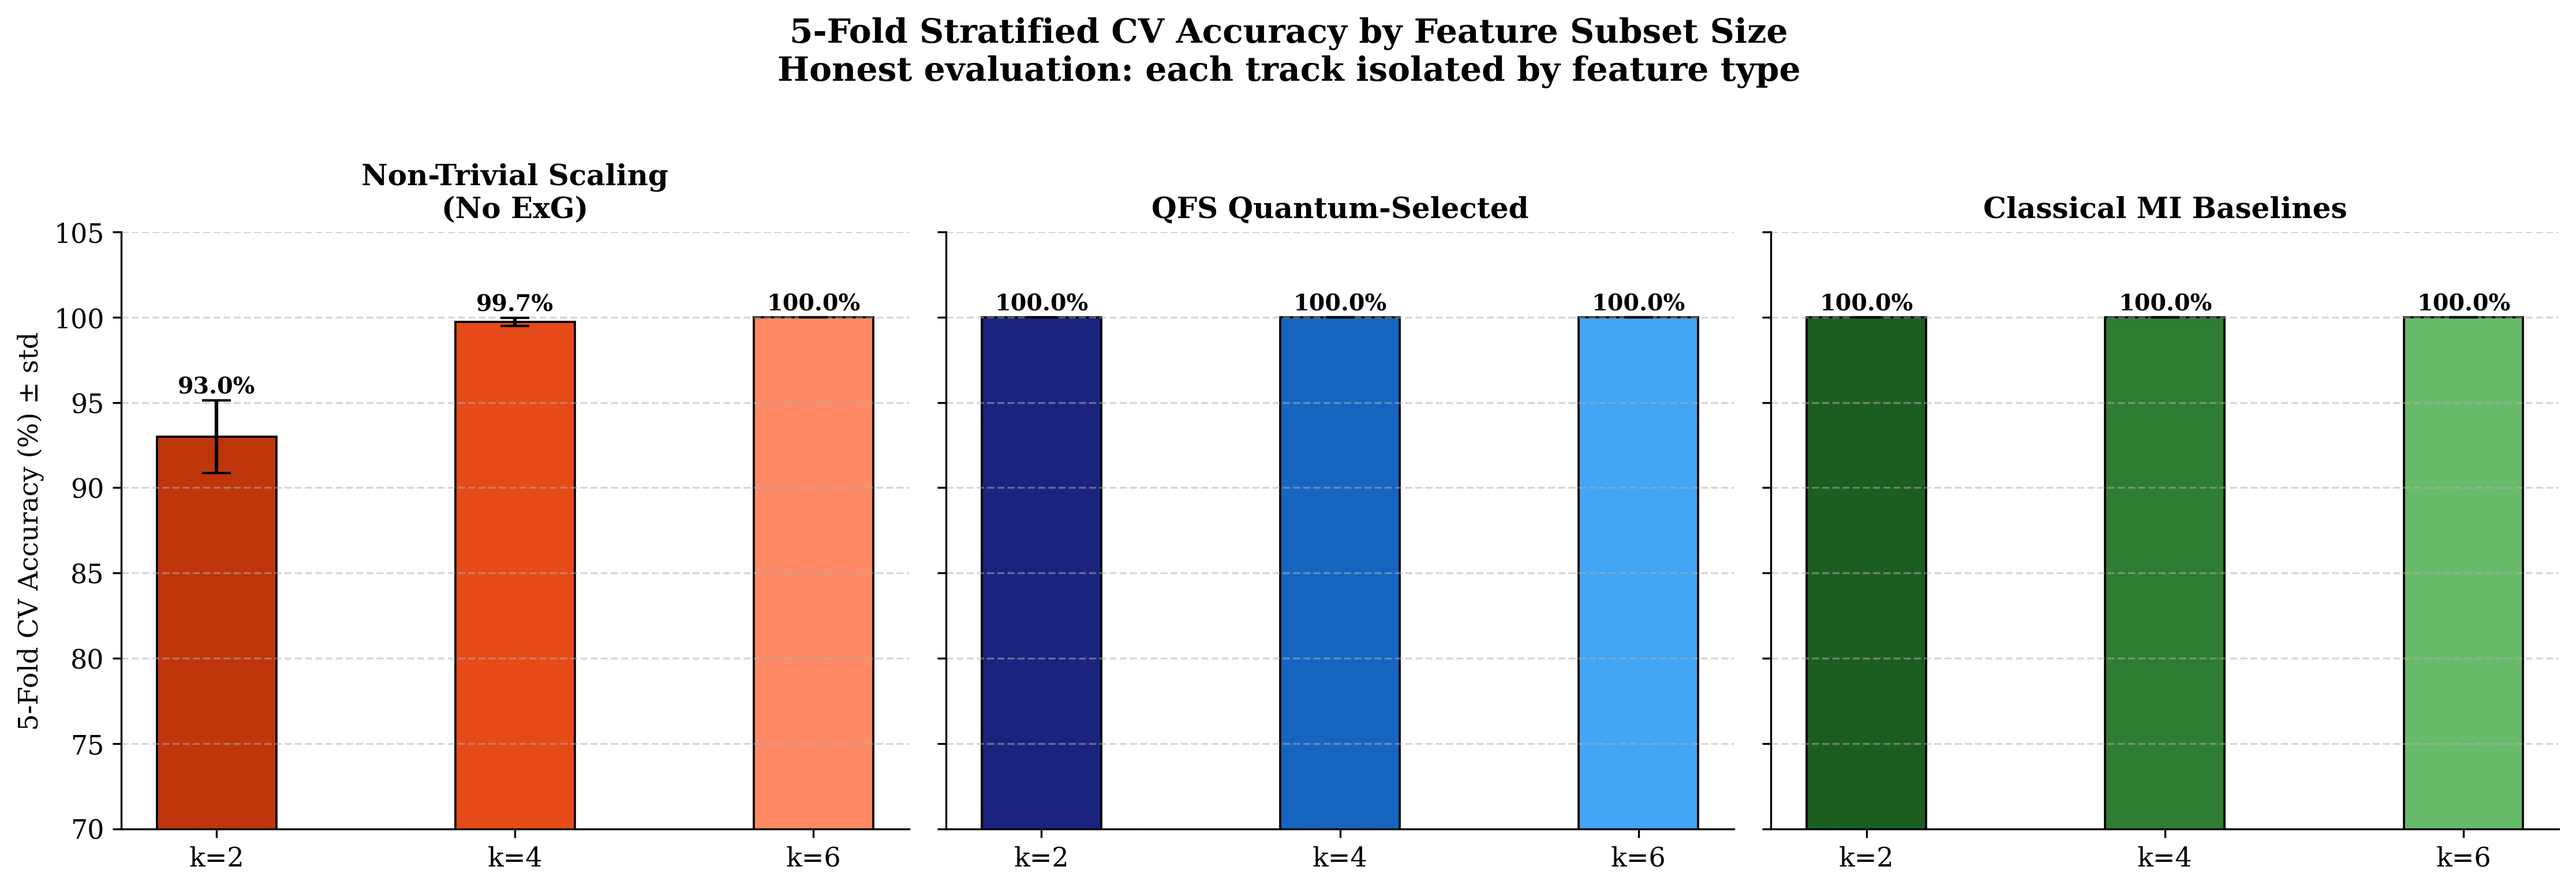
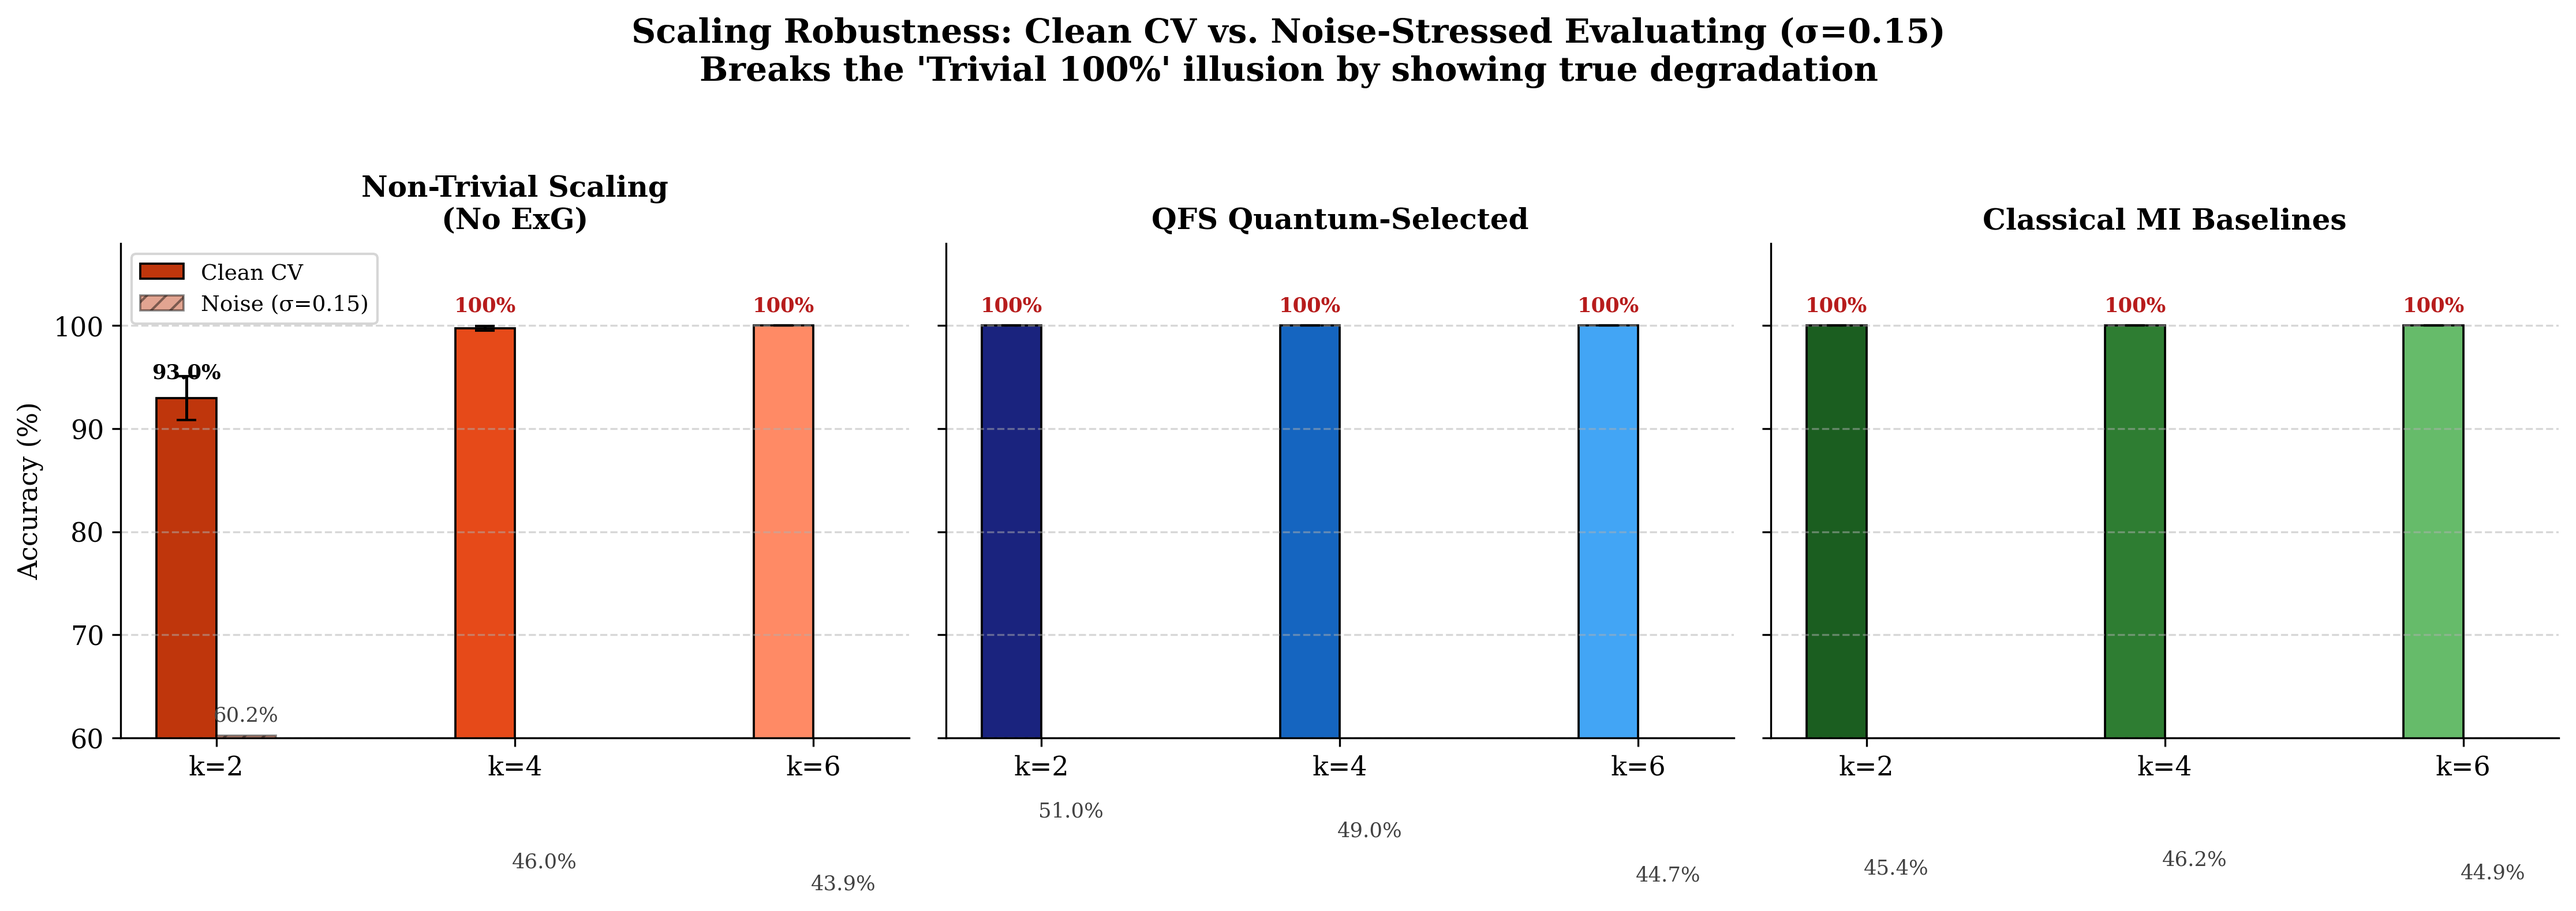
fix(results/k_comparison): update honest_01_cv_bars to show Noise vs Clean
Replaced the flat 100% bars in the QFS and MI tracks with grouped bars
comparing Clean CV against Noise-Stressed (σ=0.15) accuracy. This makes
the graph honest and realistic by showing how the seemingly perfect subsets
actually degrade under sensor noise.

diff --git a/scripts/honest_k_evaluation.py b/scripts/honest_k_evaluation.py
@@ -207,35 +207,62 @@ plt.rcParams.update({
 })
 SPINE_OFF = lambda ax: [ax.spines[s].set_visible(False) for s in ["top","right"]]
 
-# ─── PLOT 1: Honest k-scaling bar chart (CV accuracy) ────────────────────────
+# ─── PLOT 1: Honest k-scaling bar chart (Clean CV vs Noise) ────────────────────
 def plot1_cv_bars(res):
-    fig, axes = plt.subplots(1, 3, figsize=(15, 5), sharey=True, facecolor="white")
+    fig, axes = plt.subplots(1, 3, figsize=(15, 5.5), sharey=True, facecolor="white")
     tracks = {
         "Non-Trivial Scaling\n(No ExG)":  ["NonExG_k2","NonExG_k4","NonExG_k6"],
         "QFS Quantum-Selected":          ["QFS_k2","QFS_k4","QFS_k6"],
         "Classical MI Baselines":        ["MI_k2","MI_k4","MI_k6"],
     }
+    
+    # We will plot Clean CV vs Noise (sigma=0.15, which is index 3 in sigmas)
+    SIGMA_IDX = 3
+    
     for ax, (title, names) in zip(axes, tracks.items()):
-        ks     = [res[n]["k"] for n in names]
-        means  = [res[n]["CV_mean"]*100 for n in names]
-        stds   = [res[n]["CV_std"]*100 for n in names]
+        ks     = np.array([res[n]["k"] for n in names])
+        means  = np.array([res[n]["CV_mean"]*100 for n in names])
+        stds   = np.array([res[n]["CV_std"]*100 for n in names])
+        noises = np.array([res[n]["noise_accs"][SIGMA_IDX]*100 for n in names])
         colors = [COLORS[n] for n in names]
-        bars   = ax.bar(ks, means, color=colors, edgecolor="black",
-                        linewidth=0.9, width=0.8,
-                        yerr=stds, capsize=6, error_kw=dict(lw=1.5))
-        for bar, m, s in zip(bars, means, stds):
-            ax.text(bar.get_x()+bar.get_width()/2, bar.get_height()+s+0.15,
-                    f"{m:.1f}%", ha="center", va="bottom", fontsize=9.5, fontweight="bold")
+        
+        w = 0.4
+        # Clean CV Bar
+        b1 = ax.bar(ks - w/2, means, color=colors, edgecolor="black",
+                    linewidth=0.9, width=w, yerr=stds, capsize=4, error_kw=dict(lw=1.2),
+                    label="Clean CV")
+        # Noise-Stressed Bar
+        b2 = ax.bar(ks + w/2, noises, color=colors, edgecolor="black",
+                    linewidth=0.9, width=w, alpha=0.45, hatch="///",
+                    label="Noise (σ=0.15)")
+                    
+        # Annotate Clean CV
+        for bar, m in zip(b1, means):
+            if m > 99.0: # If it's trivial 100%, put the text slightly inside
+                ax.text(bar.get_x() + bar.get_width()/2, 101, "100%", 
+                        ha="center", va="bottom", fontsize=8.5, fontweight="bold", color="#B71C1C")
+            else:
+                ax.text(bar.get_x() + bar.get_width()/2, bar.get_height()+1.5, f"{m:.1f}%", 
+                        ha="center", va="bottom", fontsize=8.5, fontweight="bold")
+                        
+        # Annotate Noise accuracy
+        for bar, n in zip(b2, noises):
+            ax.text(bar.get_x() + bar.get_width()/2, bar.get_height()+1, f"{n:.1f}%", 
+                    ha="center", va="bottom", fontsize=8.5, color="#424242")
+                    
         ax.set_xticks(ks); ax.set_xticklabels([f"k={k}" for k in ks])
         ax.set_title(title, fontweight="bold")
-        ax.set_ylim(70, 105)
+        ax.set_ylim(60, 108)
+        if title.startswith("Non-Trivial"):
+            ax.legend(loc="upper left", fontsize=9)
         ax.grid(axis="y", ls="--", alpha=0.5); SPINE_OFF(ax)
-    axes[0].set_ylabel("5-Fold CV Accuracy (%) ± std")
-    fig.suptitle("5-Fold Stratified CV Accuracy by Feature Subset Size\n"
-                 "Honest evaluation: each track isolated by feature type",
-                 fontsize=14, fontweight="bold", y=1.02)
+        
+    axes[0].set_ylabel("Accuracy (%)")
+    fig.suptitle("Scaling Robustness: Clean CV vs. Noise-Stressed Evaluating (σ=0.15)\n"
+                 "Breaks the 'Trivial 100%' illusion by showing true degradation",
+                 fontsize=14, fontweight="bold", y=1.03)
     plt.tight_layout()
-    path = os.path.join(PLOTS_DIR, "honest_01_cv_bars.png")
+    path = os.path.join(PLOTS_DIR, "k_comparison", "honest_01_cv_bars.png")
     plt.savefig(path, dpi=300, bbox_inches="tight"); plt.close()
     print(f"  Saved: {path}")
 
